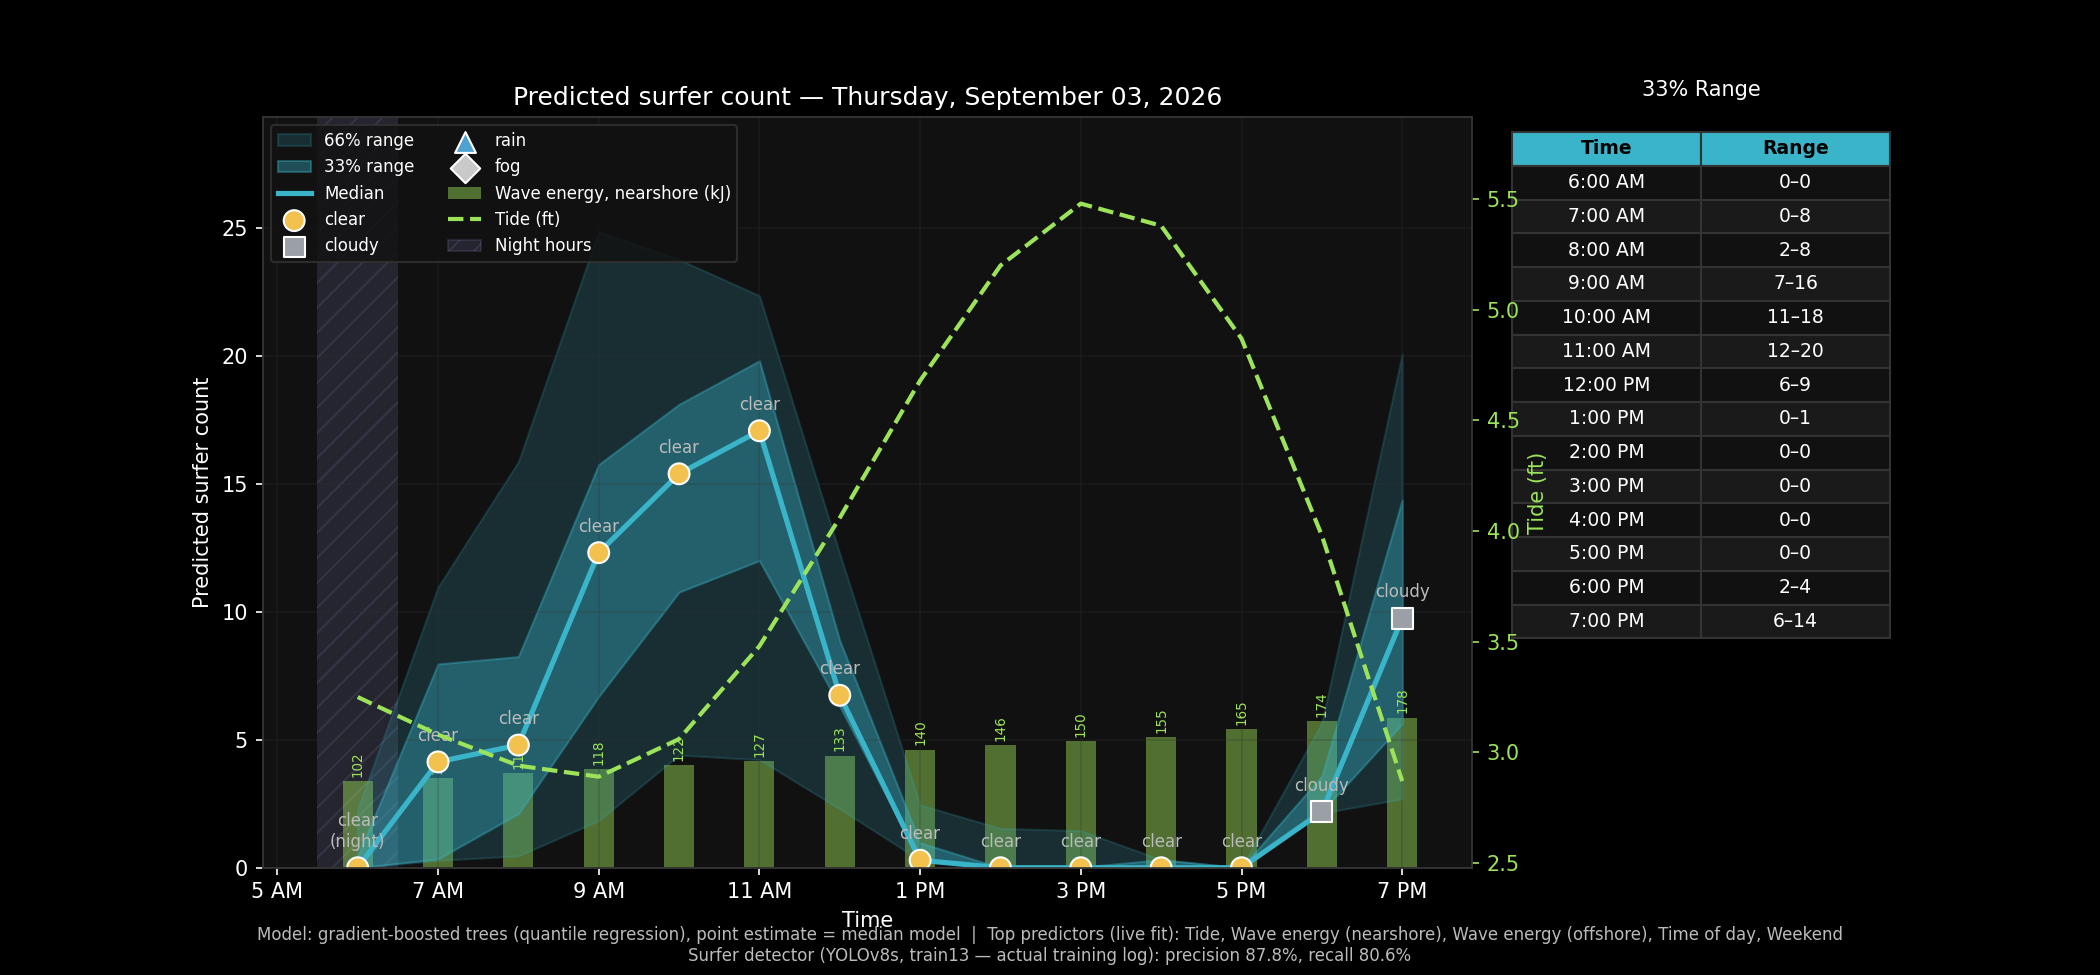
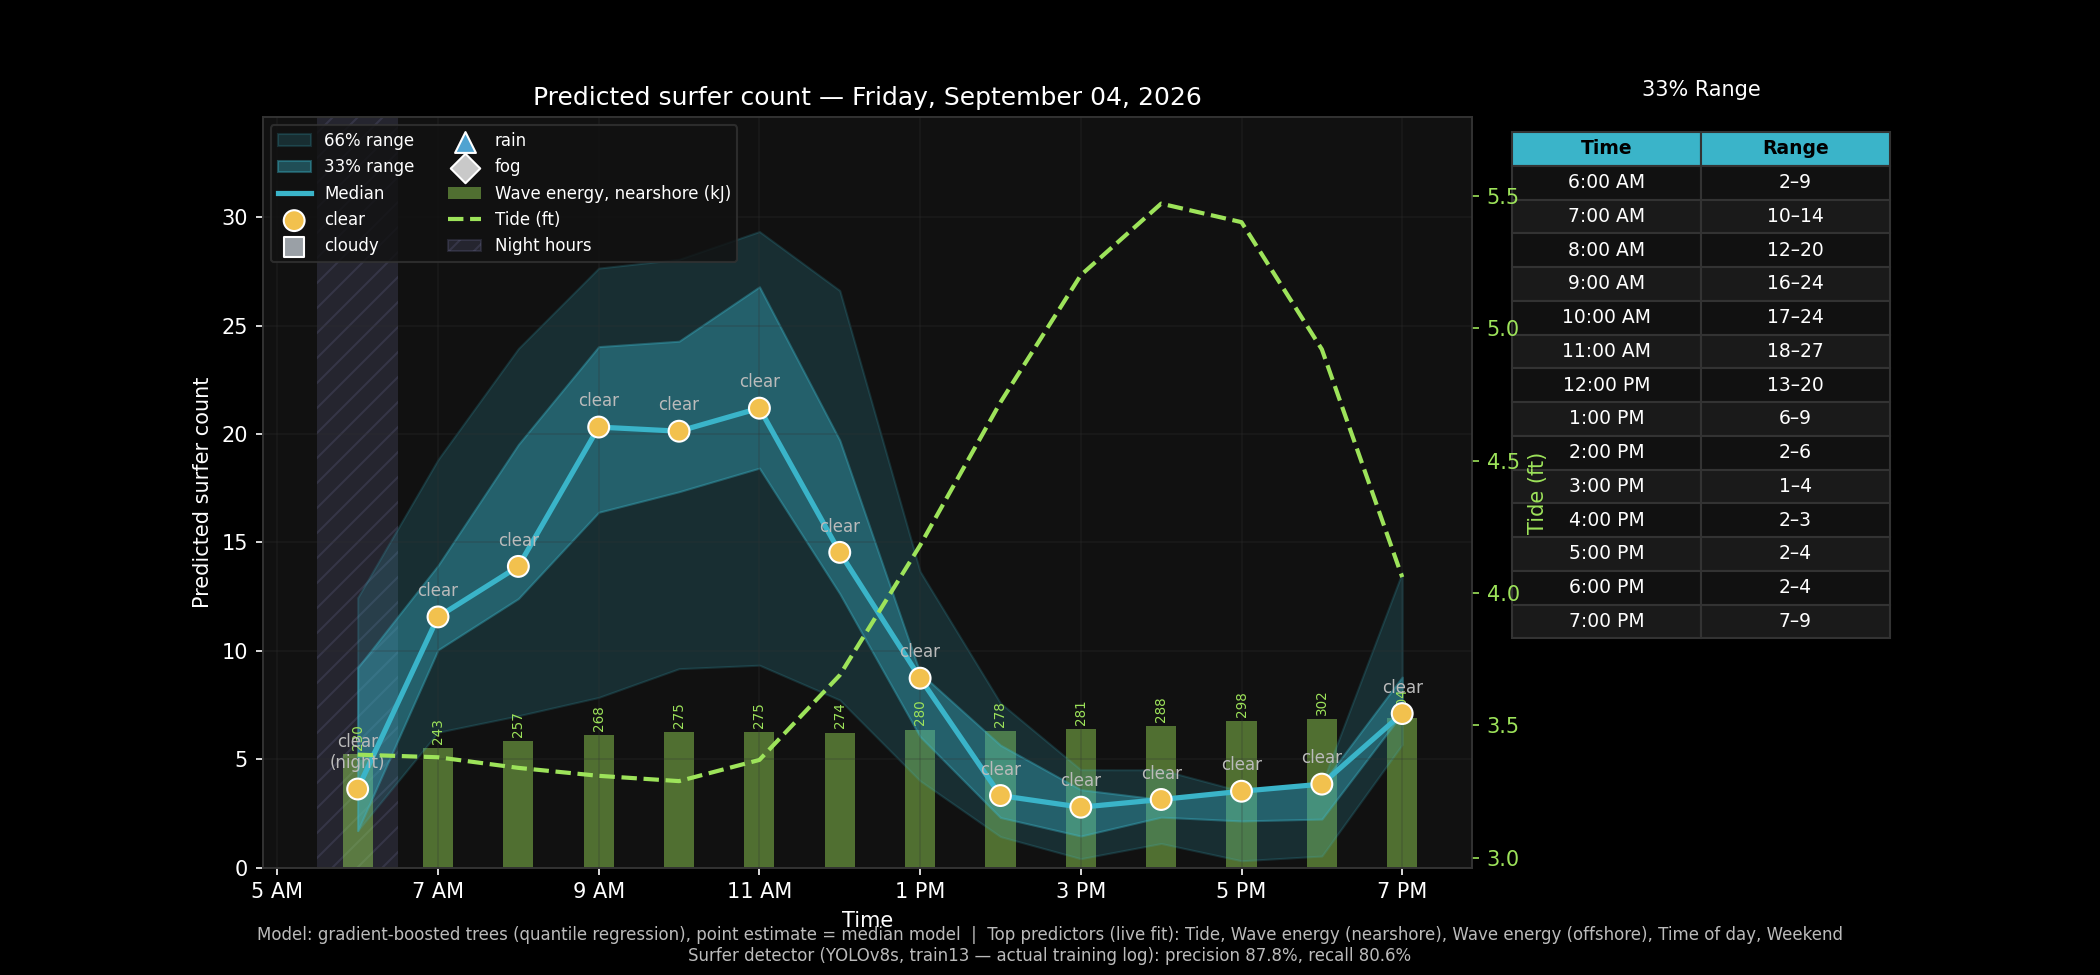
Automated: update daily surfer count chart (2026-09-03)

diff --git a/README.md b/README.md
@@ -9,7 +9,7 @@ This project downloads short clips around daylight hours, extracts 3 cropped fra
 
 ![Latest detection review](data/charts/latest_detection.png)
 
-## The Surfer Crowd Forecast for: Thursday, September 03, 2026
+## The Surfer Crowd Forecast for: Friday, September 04, 2026
 
 ![Latest daily prediction chart](data/charts/latest.png)
 
